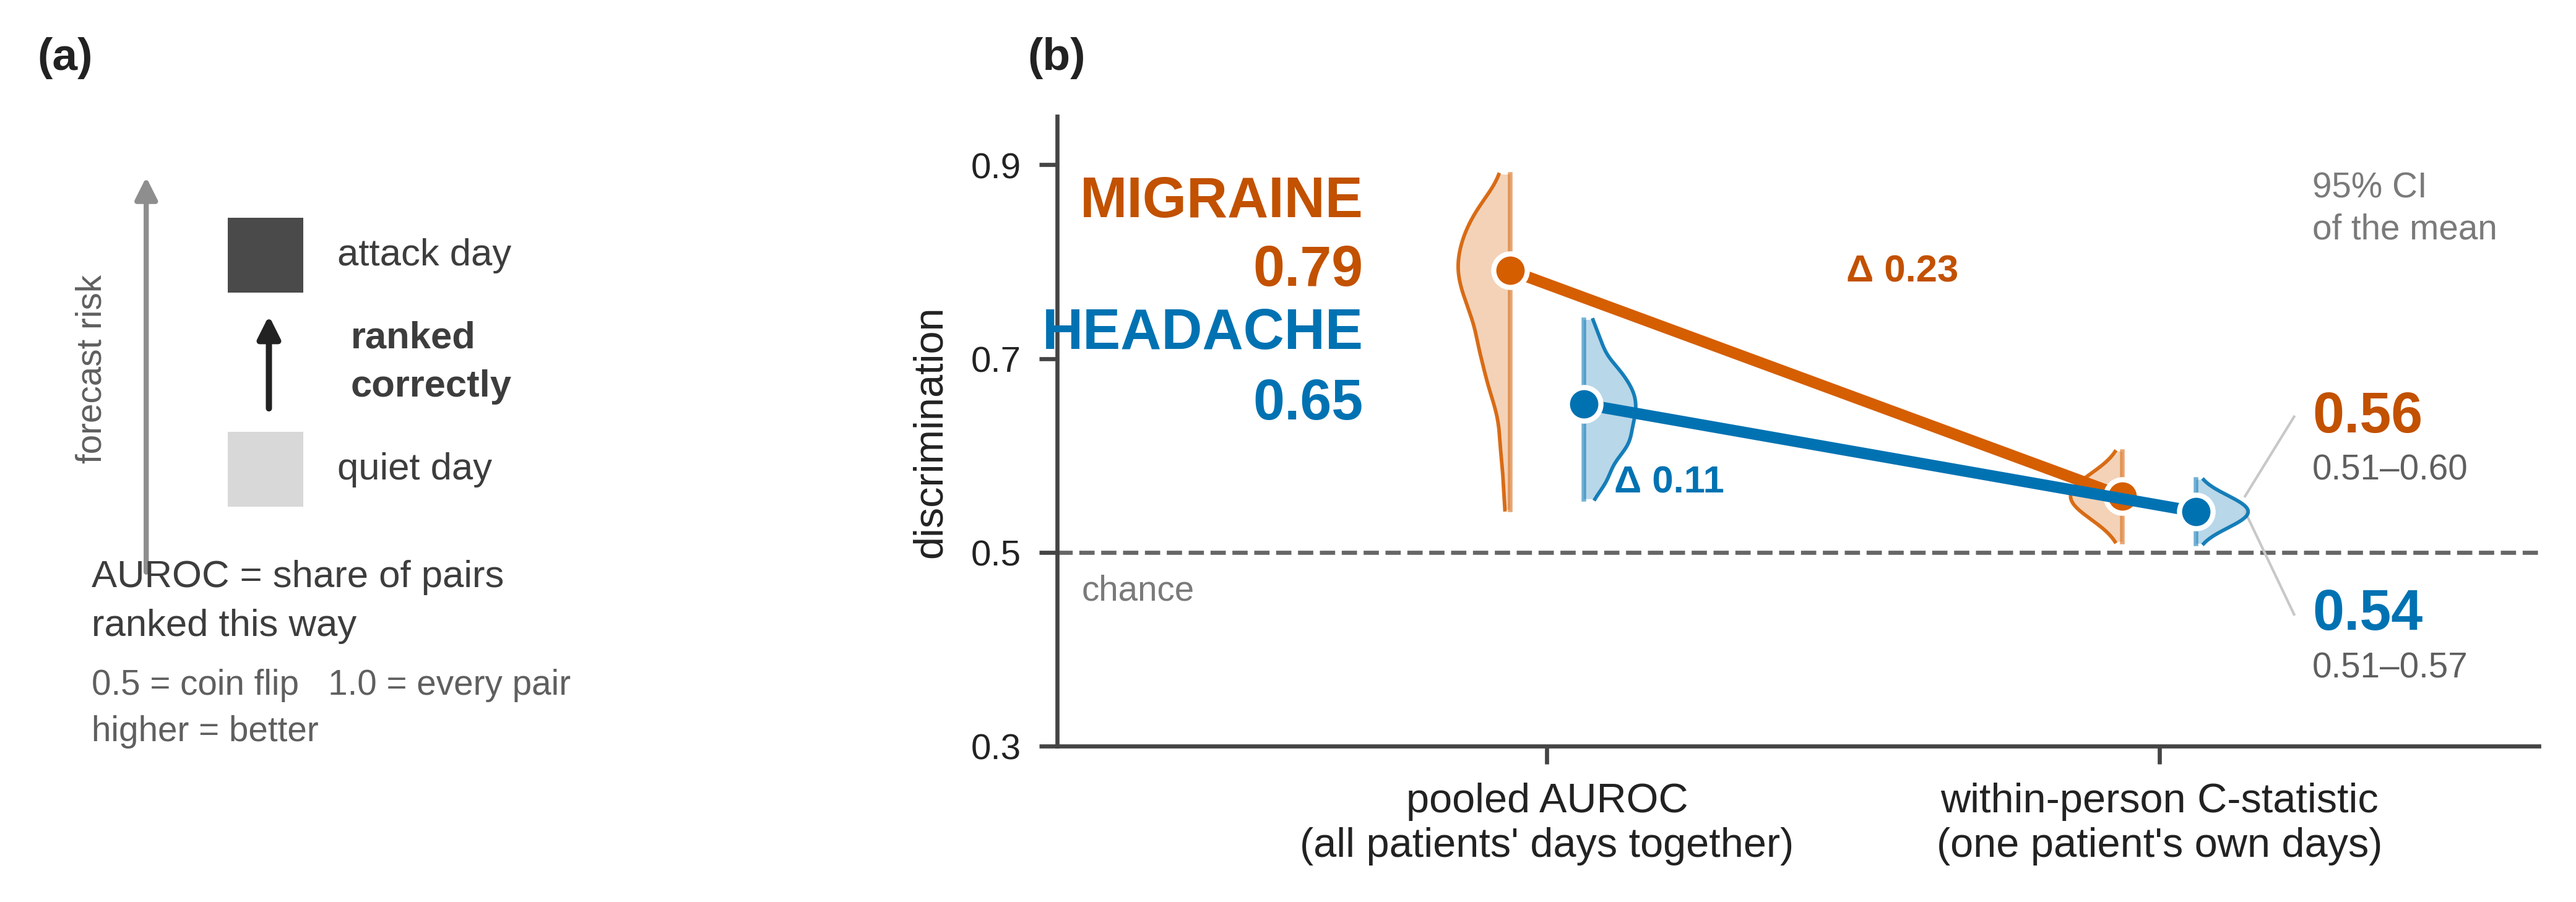
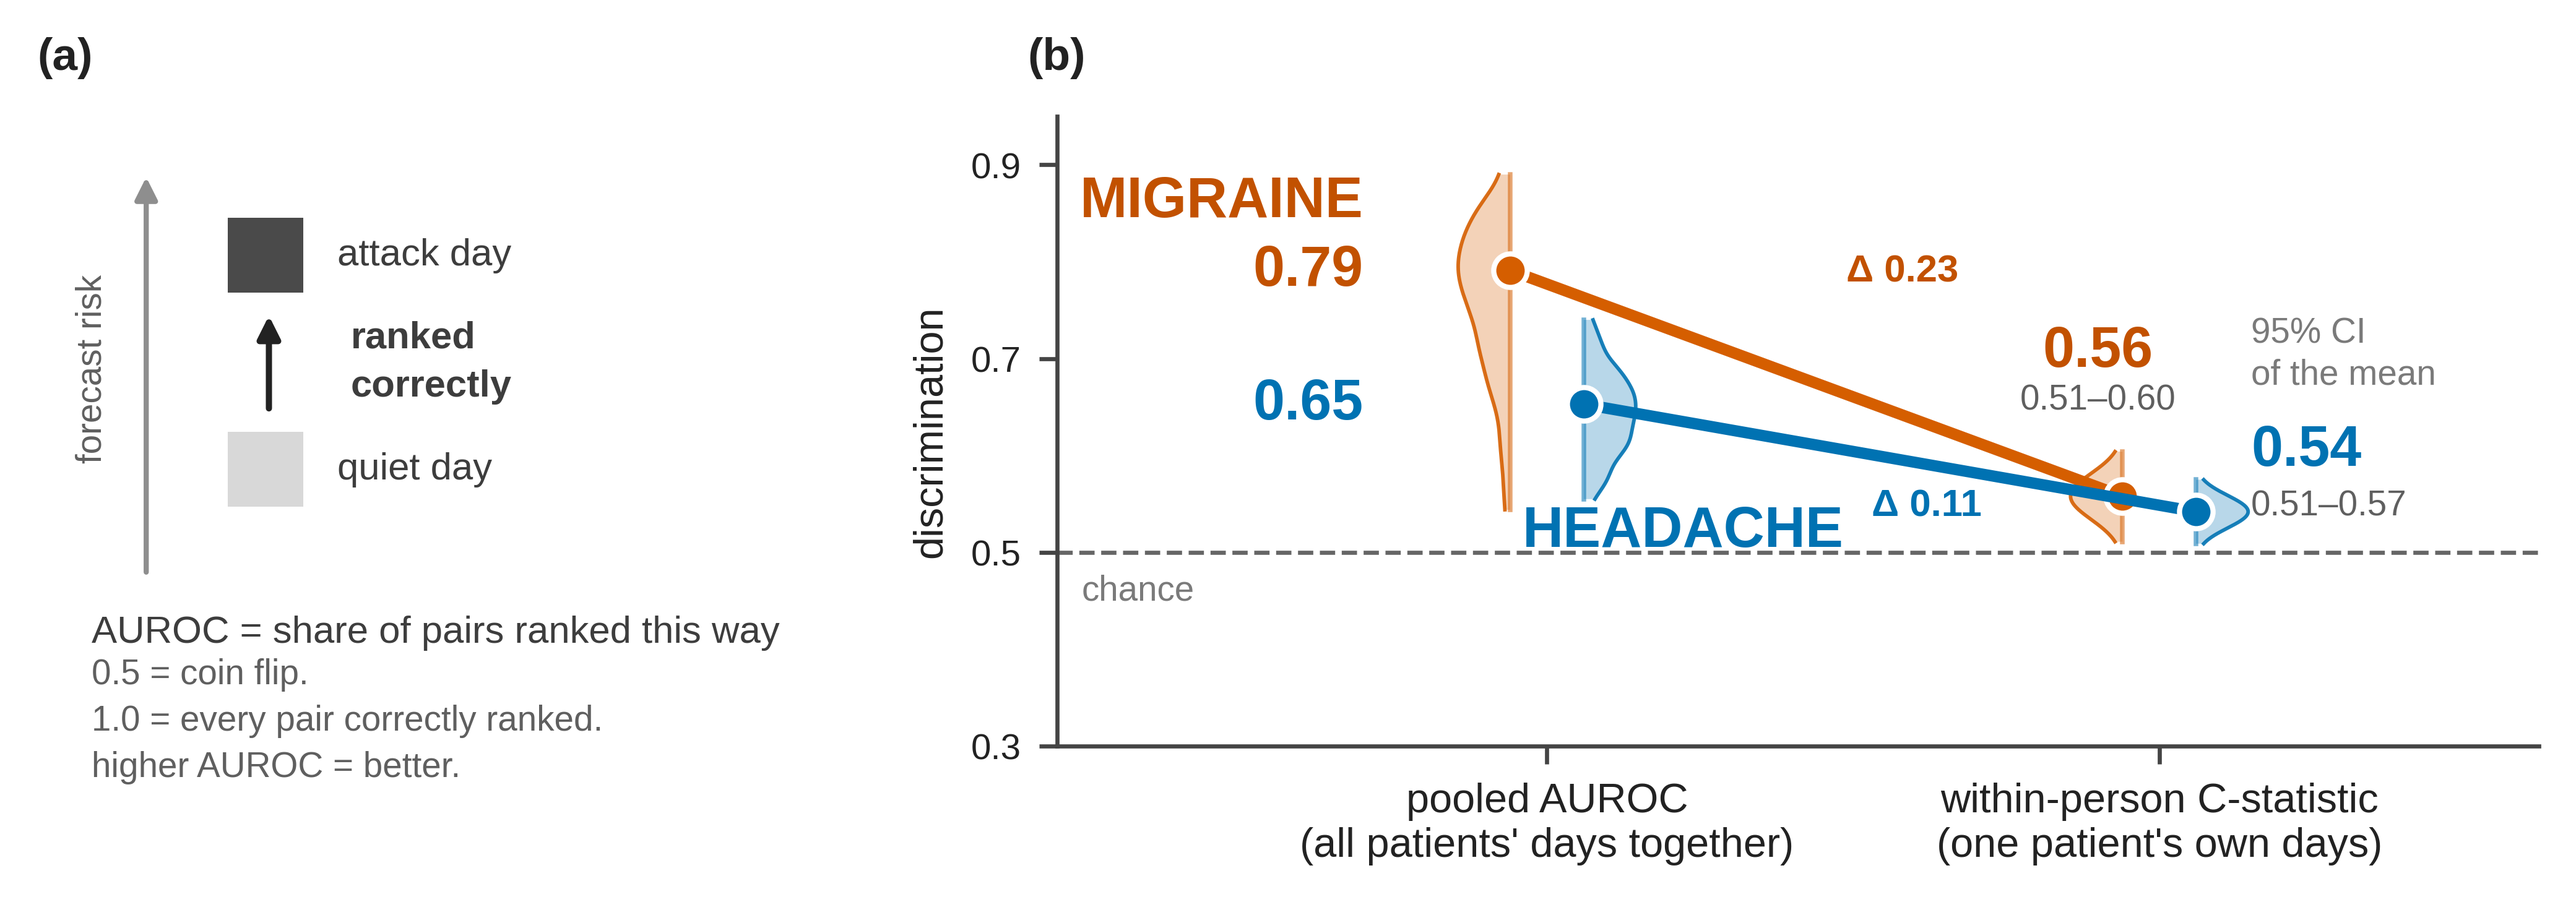
m1lab

diff --git a/docs/methodAndResults_diagramCreatorScripts/fig_m_evaluation_series.py b/docs/methodAndResults_diagramCreatorScripts/fig_m_evaluation_series.py
@@ -133,9 +133,8 @@ def _how_auroc(ax):
                 arrowprops=dict(arrowstyle="-|>", color=A_INK, lw=1.2))
     _lab(ax, 44, 61, "ranked\ncorrectly", PT_BODY, BODY, weight="bold")
     # the readers could describe the pair test and still not know AUROC *is* the pair count
-    _lab(ax, 6, 23, "AUROC = share of pairs\nranked this way", PT_BODY, BODY)
-    _lab(ax, 6, 6, "0.5 = coin flip   1.0 = every pair\nhigher = better",
-         PT_FINE, SECOND)
+    _lab(ax, 6, 18, "AUROC = share of pairs ranked this way", PT_BODY, BODY)
+    _lab(ax, 6, 4, "0.5 = coin flip chance  \n1.0 = every pair correctly ranked.\nhigher AUROC -> better.", PT_FINE, SECOND)
 
 
 def _how_within(ax):
@@ -316,25 +315,33 @@ def _slope_panel(ax):
                            reps=reps.get(key) if xi == xs[0] else None)
     # left gutter: word above its own value, each value at its marker's height,
     # so no leader is needed and nothing sits on a slope
-    for d, txt, wy in ((GA.MIGRAINE, MIG_TEXT, 0.862), (GA.HEADACHE, HEA_TEXT, 0.726)):
-        ax.text(-0.30, wy, "MIGRAINE" if txt == MIG_TEXT else "HEADACHE",
-                fontsize=PT_VALUE, fontweight="bold", color=txt, ha="right", va="center")
-        ax.text(-0.30, d["pooled"], f"{d['pooled']:.2f}", fontsize=PT_VALUE,
-                fontweight="bold", color=txt, ha="right", va="center")
+    ax.text(-0.30, 0.862, "MIGRAINE", fontsize=PT_VALUE, fontweight="bold",
+            color=MIG_TEXT, ha="right", va="center")
+    ax.text(-0.30, GA.MIGRAINE["pooled"], f"{GA.MIGRAINE['pooled']:.2f}",
+            fontsize=PT_VALUE, fontweight="bold", color=MIG_TEXT, ha="right", va="center")
+    # sits at its own pooled dot's x, so the word names the blue series directly
+    ax.text(-0.04, 0.549, "HEADACHE", fontsize=PT_VALUE, fontweight="bold",
+            color=HEA_TEXT, ha="left", va="top")
+    ax.text(-0.30, GA.HEADACHE["pooled"], f"{GA.HEADACHE['pooled']:.2f}",
+            fontsize=PT_VALUE, fontweight="bold", color=HEA_TEXT, ha="right", va="center")
     # right gutter: the within-person value with its interval printed, because
     # "does it cross 0.5" is a 0.7 mm judgement at this scale and must not be one
-    for d, txt, ly in ((GA.MIGRAINE, MIG_TEXT, 0.640), (GA.HEADACHE, HEA_TEXT, 0.436)):
-        lo, hi = d["within_ci"]
-        ax.plot([1.14, 1.22], [d["within"], ly], color="#c8c8c8", lw=0.5, zorder=2)
-        ax.text(1.25, ly, f"{d['within']:.2f}", fontsize=PT_VALUE, fontweight="bold",
-                color=txt, ha="left", va="center")
-        ax.text(1.25, ly - 0.055, f"{lo:.2f}\u2013{hi:.2f}", fontsize=PT_FINE,
-                color=SECOND, ha="left", va="center")
-    ax.text(1.25, 0.855, "95% CI\nof the mean", fontsize=PT_FINE, color=THIRD,
+    # labels sit against their own dots, so no leader is needed
+    mlo, mhi = GA.MIGRAINE["within_ci"]
+    ax.text(0.90, 0.680, f"{GA.MIGRAINE['within']:.2f}", fontsize=PT_VALUE,
+            fontweight="bold", color=MIG_TEXT, ha="center", va="bottom")
+    ax.text(0.90, 0.640, f"{mlo:.2f}\u2013{mhi:.2f}", fontsize=PT_FINE,
+            color=SECOND, ha="center", va="bottom")
+    hlo, hhi = GA.HEADACHE["within_ci"]
+    ax.text(1.15, 0.605, f"{GA.HEADACHE['within']:.2f}", fontsize=PT_VALUE,
+            fontweight="bold", color=HEA_TEXT, ha="left", va="center")
+    ax.text(1.15, 0.548, f"{hlo:.2f}\u2013{hhi:.2f}", fontsize=PT_FINE,
+            color=SECOND, ha="left", va="center")
+    ax.text(1.15, 0.705, "95% CI\nof the mean", fontsize=PT_FINE, color=THIRD,
             ha="left", va="center", linespacing=1.3)
     ax.text(0.58, 0.790, f"\u0394 {GA.MIGRAINE['pooled'] - GA.MIGRAINE['within']:.2f}",
             fontsize=PT_BODY, fontweight="bold", color=MIG_TEXT, ha="center", va="center")
-    ax.text(0.20, 0.572, f"\u0394 {GA.HEADACHE['pooled'] - GA.HEADACHE['within']:.2f}",
+    ax.text(0.62, 0.548, f"\u0394 {GA.HEADACHE['pooled'] - GA.HEADACHE['within']:.2f}",
             fontsize=PT_BODY, fontweight="bold", color=HEA_TEXT, ha="center", va="center")
     # own chance label, placed clear of the rule instead of across it
     ax.text(-0.76, 0.478, "chance", fontsize=PT_FINE, color=THIRD, ha="left", va="top")

diff --git a/docs/methodAndResults_diagramCreatorScripts/check_label_overlap.py b/docs/methodAndResults_diagramCreatorScripts/check_label_overlap.py
@@ -43,6 +43,11 @@ def _spy(fig, path):
     def seg_hits_box(ln, e):
         d = ln.get_data()
         pts = ln.get_transform().transform(list(zip(*d)))
+        # an axhline spans the axes; densify so a long horizontal rule is sampled
+        if len(pts) == 2:
+            import numpy as _np
+            pts = [(pts[0][0] + (pts[1][0] - pts[0][0]) * k / 120,
+                    pts[0][1] + (pts[1][1] - pts[0][1]) * k / 120) for k in range(121)]
         for (x1, y1), (x2, y2) in zip(pts[:-1], pts[1:]):
             for t in [i / 24 for i in range(25)]:      # sample along the segment
                 x, y = x1 + (x2 - x1) * t, y1 + (y2 - y1) * t
